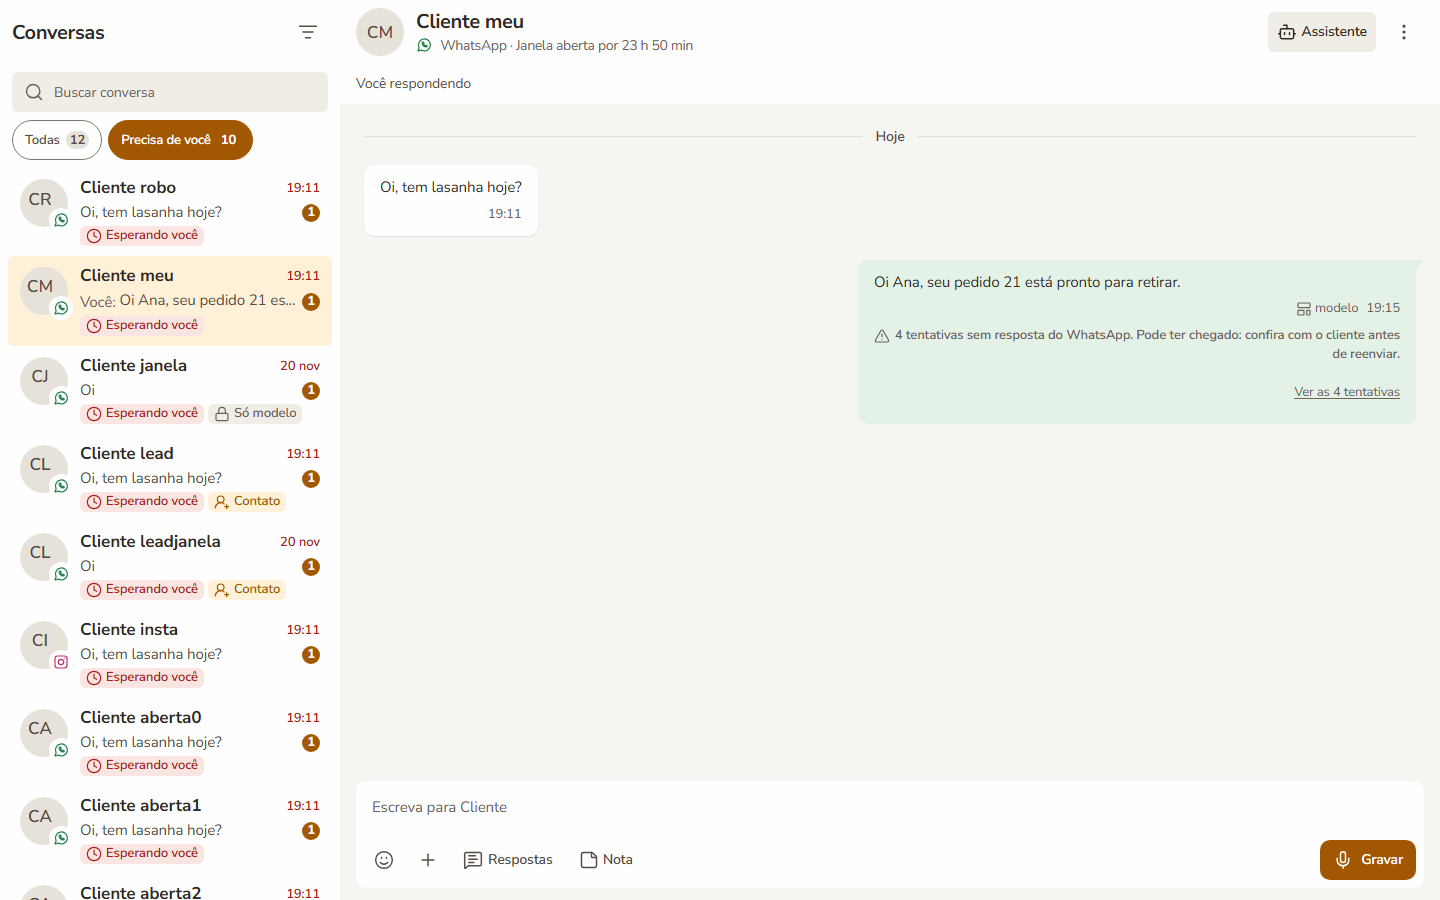
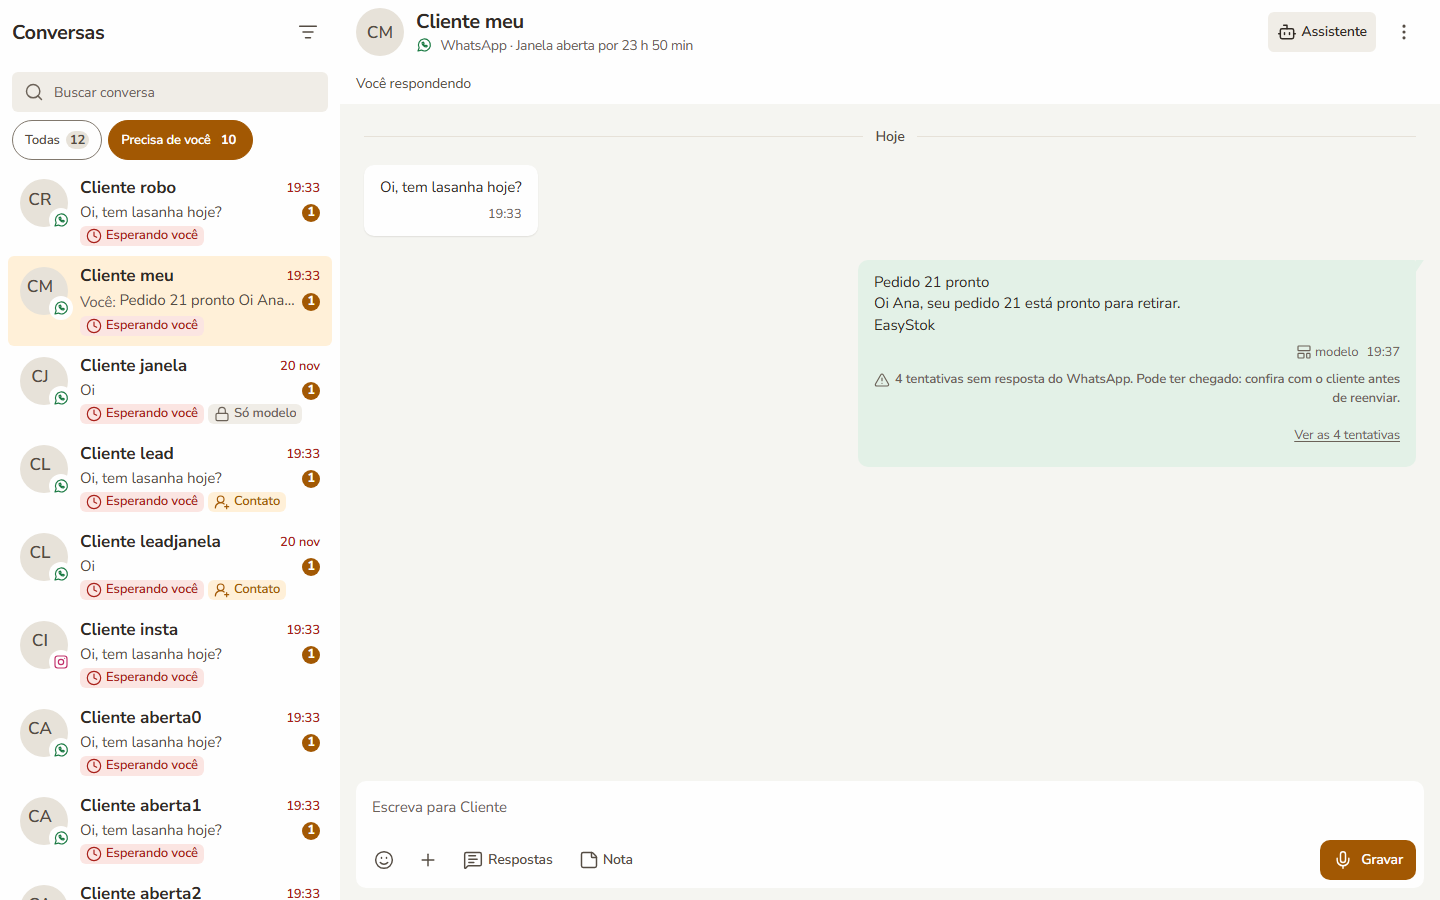
test(web): use o formato real do modelo nas provas da A2b (#3234)
Nits da revisão sem contexto da PR #3245 (0 Critical, 0 Important):

- Caso j da prova-3234: tipo Modelo e texto com cabeçalho, corpo e
  rodapé por quebra de linha, como EnviarModeloConversaUseCase grava.
- A programada sai do disparo como Texto, sem modelo: o par da regra
  passa a ser programada contra o texto livre igual. Tirar a
  programada da assinatura continua derrubando o caso j.
- Harness falhas=3 e E32c com o mesmo texto de três linhas; E32c
  segue vermelho com o src do master e verde com o desta PR.
- Prints da a2b refeitos com esse texto.
- Documento da crítica: a frase "antes de reenviar" no grupo de
  modelo e a programada sem texto ("[modelo X]") ficam para o
  grupo D.

refs #3234

diff --git a/docs/dev/critica-atendimento-3234-2026-11-23.md b/docs/dev/critica-atendimento-3234-2026-11-23.md
@@ -146,6 +146,9 @@ Decisões da A2b:
 - Modelo sem texto continua fora do grupo. O balão mostra só o rótulo "Mensagem de modelo sem texto", e dois envios podem ter parâmetros diferentes. A tradução da API marca esse caso.
 - O modelo continua sem Reenviar, no grupo e fora dele.
 - Os prints de antes e depois, tirados do harness da prova-2185 com 4 modelos que esgotaram o tempo, estão em `critica-atendimento-3234/a2b/`.
+- Ficam para o grupo D, achados da revisão da PR #3245:
+  - o aviso do grupo de modelo termina em "antes de reenviar", mas modelo não tem Reenviar. A frase vem de `falhaDeEnvio.js`, que está com a #3229, e o balão sozinho já dizia isso;
+  - a programada sai gravada como texto, e uma programada de modelo sem texto vira "[modelo X]". Duas assim seguidas, com parâmetros diferentes, agrupam por esse rótulo. Já acontecia na A2 e é raro.
 
 Por que a A3 (C5) foi para o grupo B:
 
